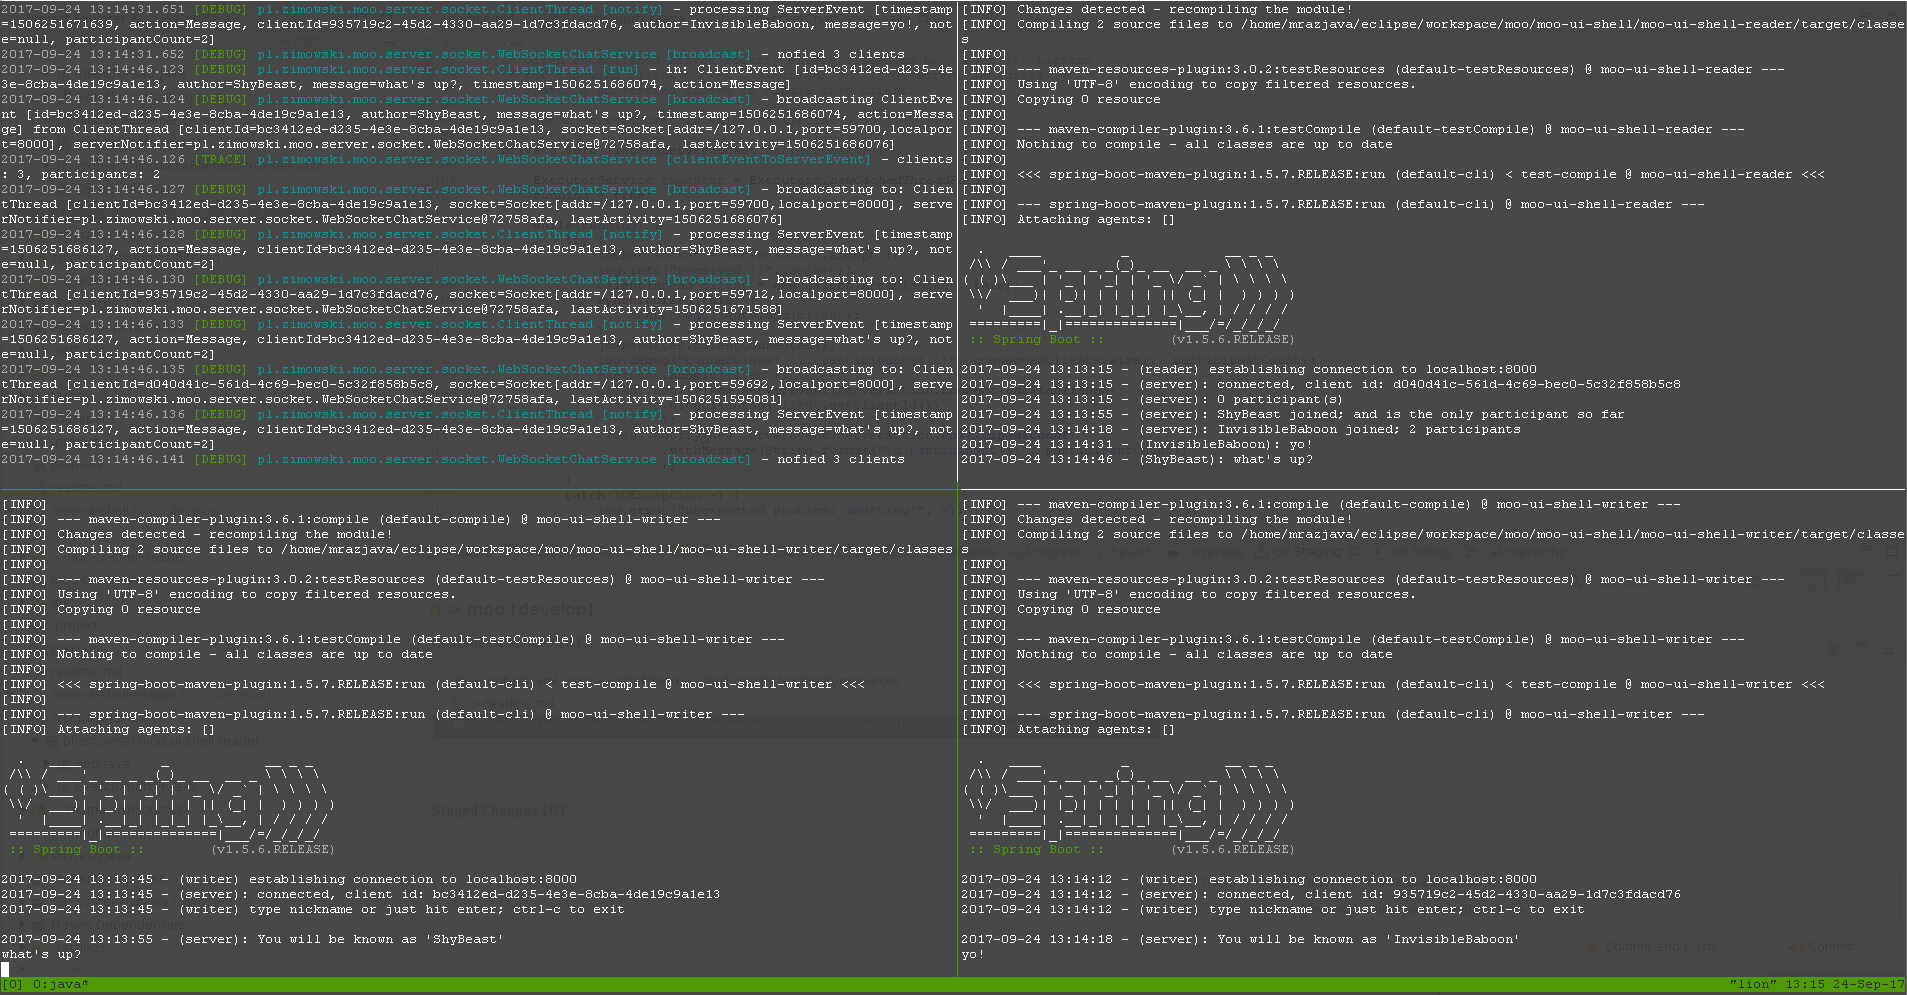
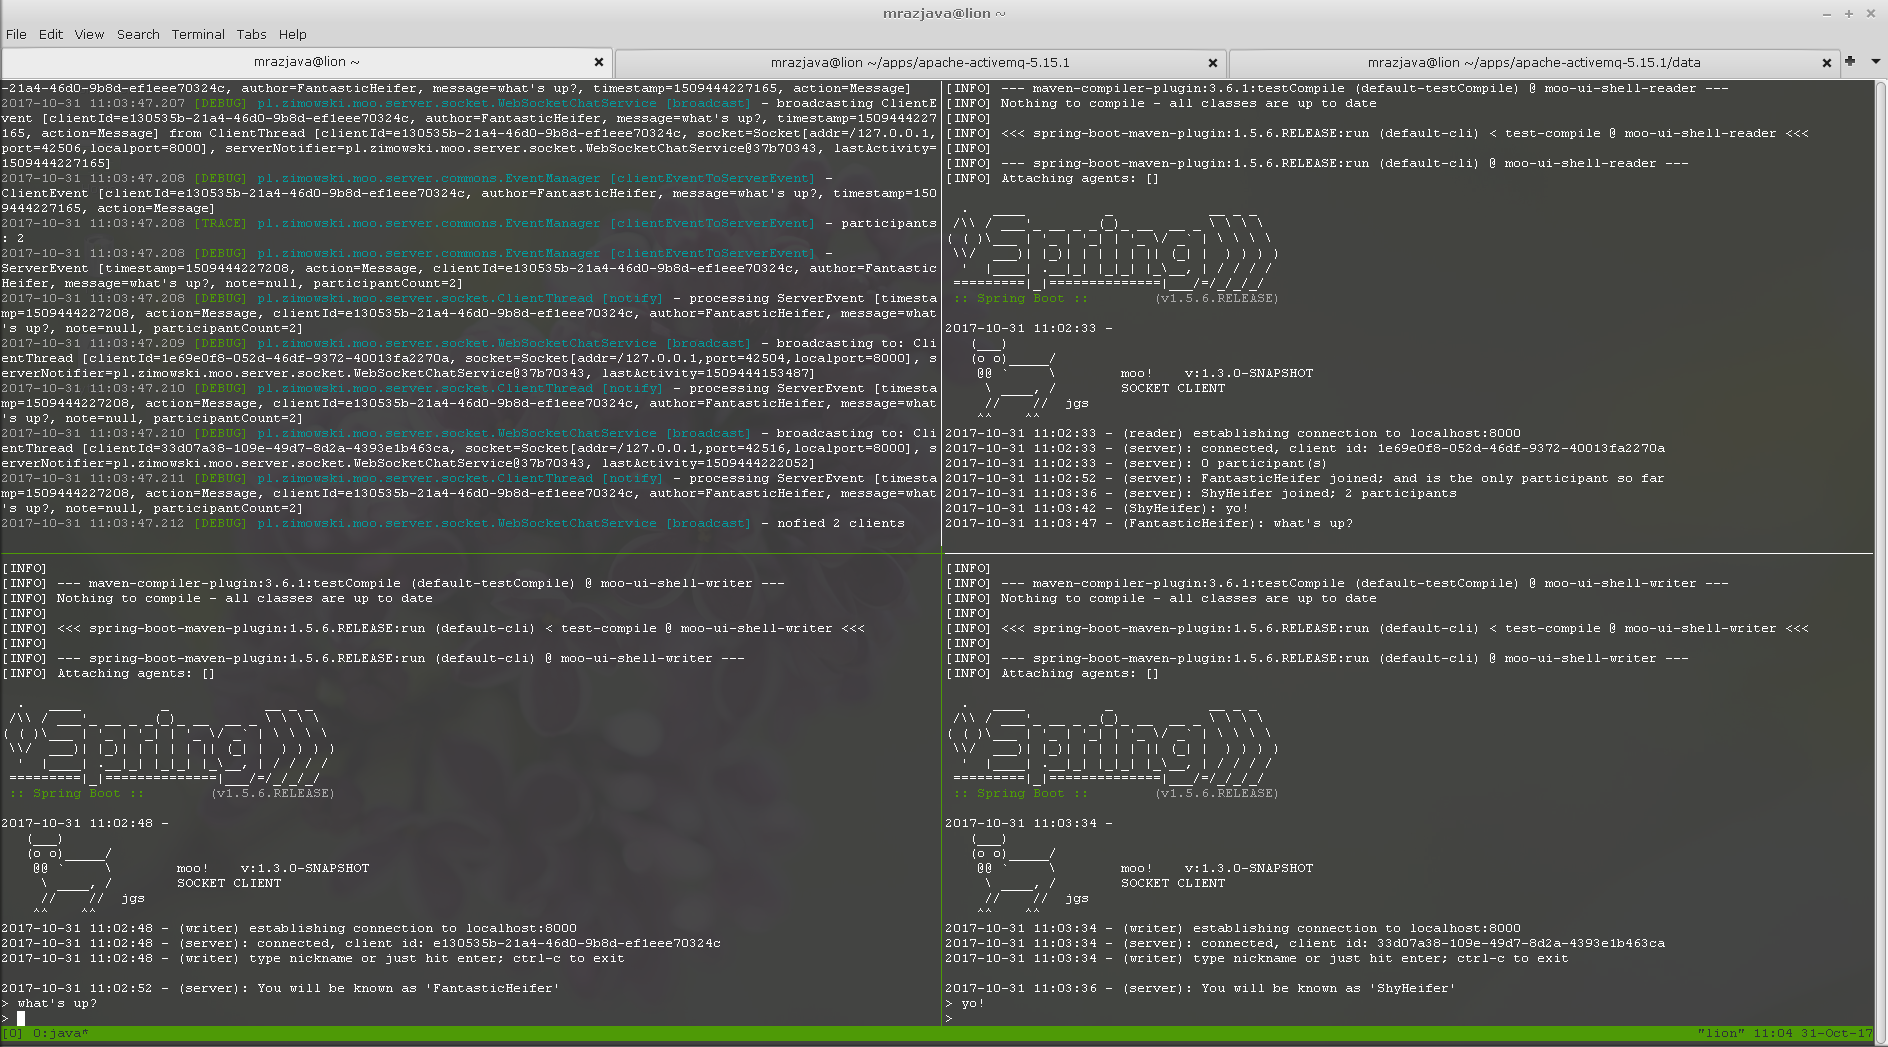
issue #3: reset UI back to socket client/server default

Changed region(s): [[0.0, 0.0, 1.0, 1.0], [0.8125, 0.6854, 0.875, 0.7166], [0.3125, 0.6854, 0.3438, 0.7166]]

diff --git a/readme.md b/readme.md
@@ -55,8 +55,13 @@ Moo running on JMS client/server with ActiveMQ broker (not shown):
 In both screenshots we have a 4 way tmux session. In the left upper corner we're running moo server. In 
 the right upper we have a moo reader which displays chat activity. In both bottom corners, 
 we're running two instances of a writer, simulating user chat experience. In a typical use 
-case, end user would run one instance of a reader and writer only. 
+case, end user would run one instance of a reader and writer only.
 
+There are some subtle but interesting UI behavioral differences depending on 
+which client/server implementation is used. For example, with web sockets when 
+server is aborted messages generated by the writer are lost. This is not the 
+case with a JMS server, as messages are retained by the broker and delivered 
+when server is started again. Try it :-)
 
 ## First things first
 ---------------------

diff --git a/moo-client-jms/readme.md b/moo-client-jms/readme.md
@@ -1,7 +1,7 @@
 # Moo - JMS client
 ---------------------
 100% pure JMS client support for JMS server. It is required as runtime 
-dependency of a UI is [JMS server](../moo-server-jms/readme.md) is used.
+dependency of a UI if [JMS server](../moo-server-jms/readme.md) is used.
 
 ## Moo Client
 
